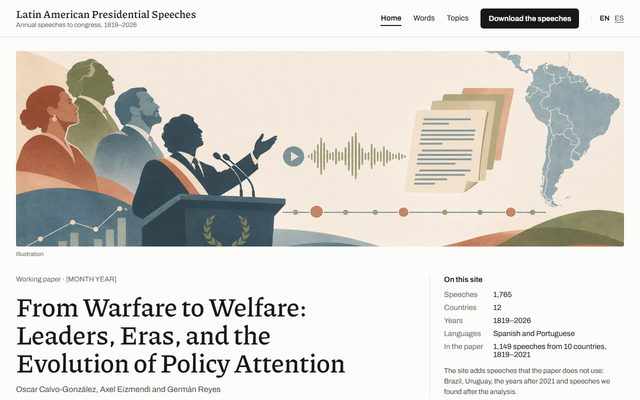
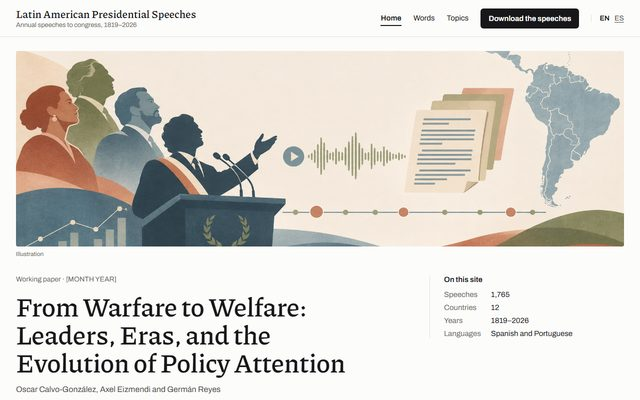
Remove the paper-sample row and the note under the facts box
Claude-Session: https://claude.ai/code/session_0196qWri7uVkMBkScxakXebN

Changed region(s): [[0.6875, 0.72, 0.9688, 0.99], [0.6875, 0.84, 0.75, 0.87]]

diff --git a/pages/Site-Home-Paper.dc.html b/pages/Site-Home-Paper.dc.html
@@ -68,10 +68,7 @@ a:hover{color:#000000;text-decoration-thickness:2px}
 <dd style="margin: 0">1819–2026</dd>
 <dt style="color: #6B6862">Languages</dt>
 <dd style="margin: 0">Spanish and Portuguese</dd>
-<dt style="color: #6B6862">In the paper</dt>
-<dd style="margin: 0">1,149 speeches from 10 countries, 1819–2021</dd>
 </dl>
-<p style="margin: 0; font-size: 14px; line-height: 1.5; color: #4A4844">The site adds speeches that the paper does not use: Brazil, Uruguay, the years after 2021 and speeches we found after the analysis.</p>
 </aside>
 </section>
 
